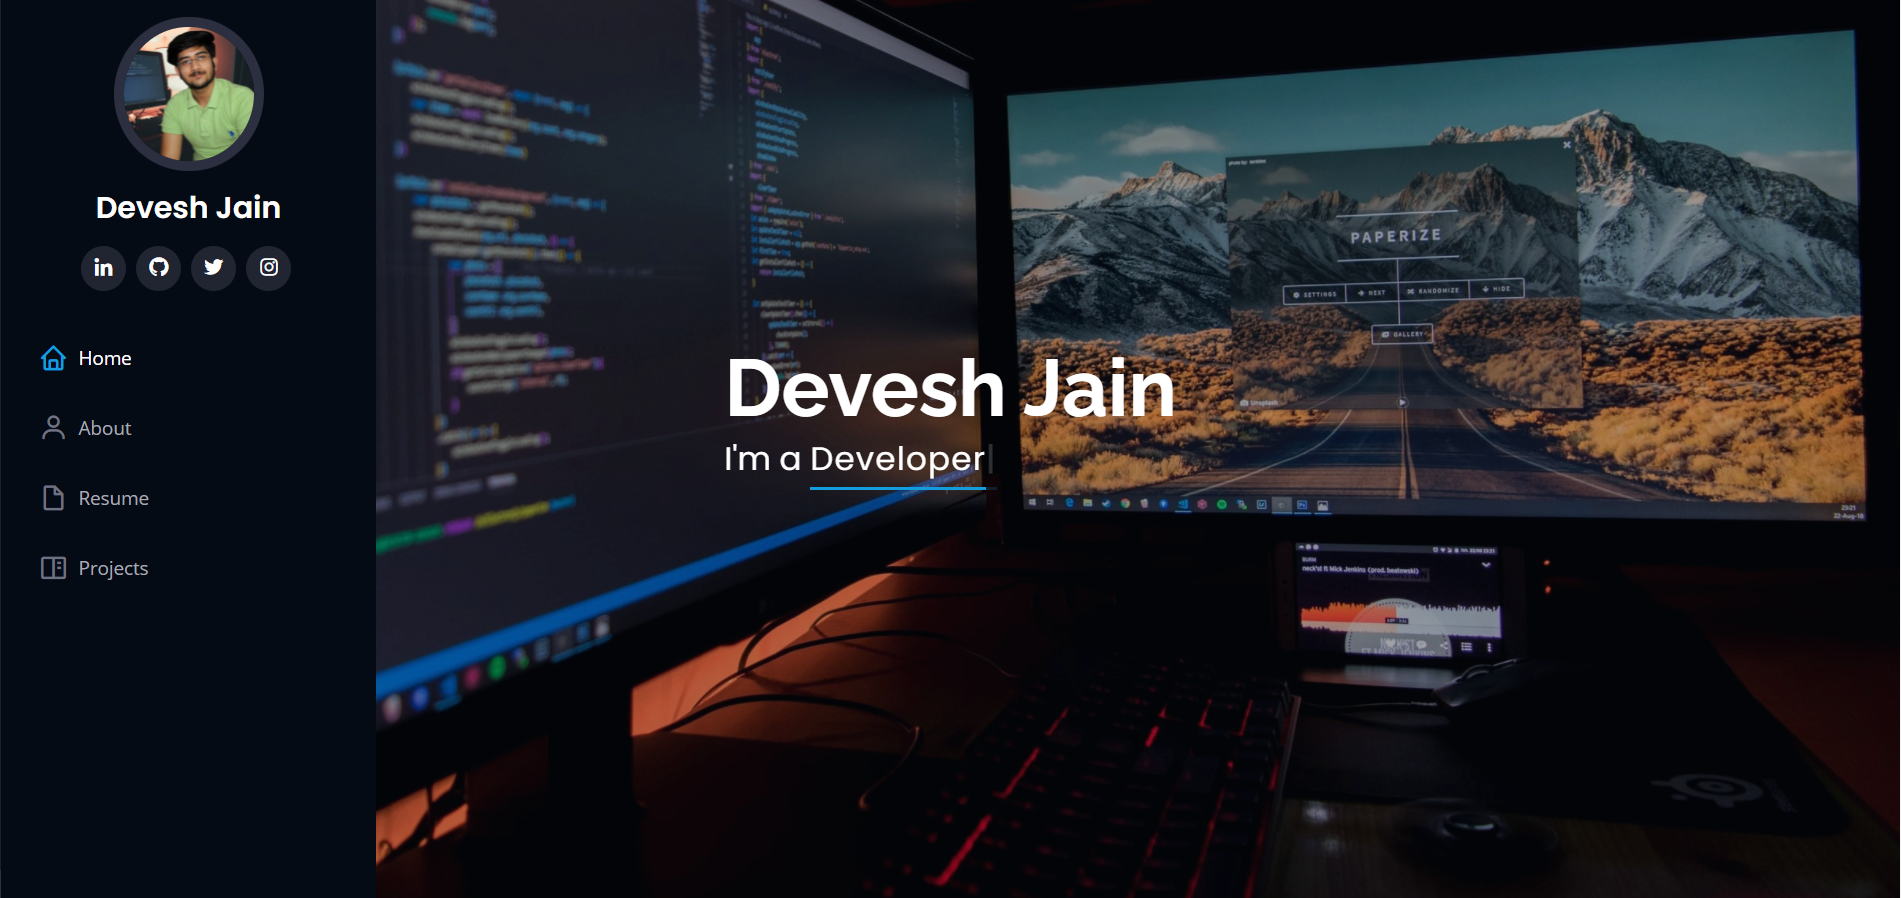
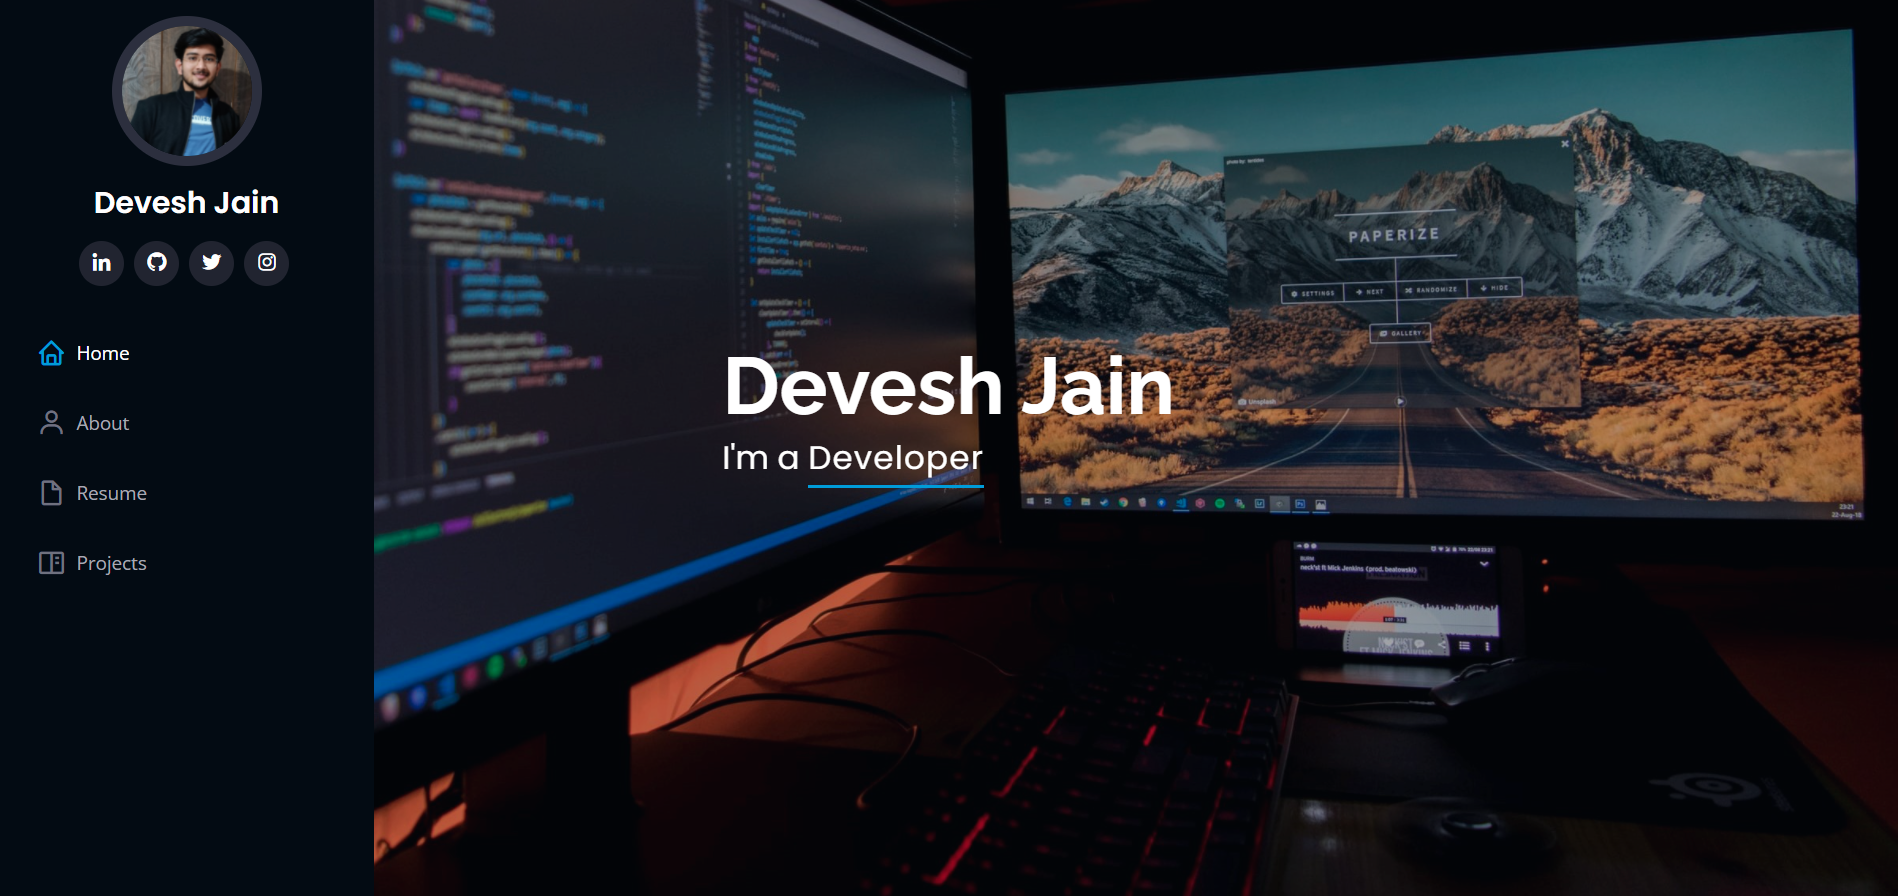
Changes

diff --git a/index.html b/index.html
@@ -39,7 +39,7 @@
     <div class="d-flex flex-column">
 
       <div class="profile">
-        <img src="assets/img/profile-img.jpg" alt="" class="img-fluid rounded-circle">
+        <img src="assets/img/profile-img-new.jpg" alt="" class="img-fluid rounded-circle">
         <h1 class="text-light"><a href="index.html">Devesh Jain</a></h1>
         <div class="social-links mt-3 text-center">
           <a href="https://www.linkedin.com/in/devesh-jain-b68b3119a/" target="_blank" class="linkedin"><i class="bx bxl-linkedin"></i></a>
@@ -94,7 +94,7 @@
 
         <div class="row">
           <div class="col-lg-4" data-aos="fade-right">
-            <img src="assets/img/profile-img.jpg" class="img-fluid" alt="">
+            <img src="assets/img/profile-img-new.jpg" class="img-fluid" alt="">
           </div>
           <div class="col-lg-8 pt-4 pt-lg-0 content" data-aos="fade-left">
             <h3>Web Developer &amp; UI/UX Designer</h3>
@@ -247,7 +247,7 @@
               <h5>Aug 2019 - Present</h5>
               <p><em> Dr. Akhilesh Das Gupta Institute of Technology and Management</em></p>
               <p>Delhi, India</p>
-              <p>CGPA = 8.29(Aggregate of 3 semesters)</p>
+              <p>CGPA = 8.71(Aggregate of 4 semesters)</p>
             </div>
             <div class="resume-item">
               <h4>12TH CBSE BOARD</h4>
@@ -272,11 +272,23 @@
             
           </div>
           <div class="resume-item">
-            <h4>Co-Founder, DESIGN HAT</h4>
-            <h5>Feb 2021 - Present</h5>
+            <h4>Web Development Intern, Technical Zen</h4>
+            <h5>April 2021 - June 2021</h5>
             <ul>
-            <li>Handles the podcasts, servers, meetings and engagement for the community.</li>
-              <li>Lead the Design Ambassador program and mentored the aspiring UI/UX designers who worked as interns under me.</li>
+            <li>Contributed to the existing code and functionality in an agile development cycle while working on the development of a
+              restaurant website’s design using ReactJS.</li>
+              
+            </ul>
+          </div>
+          <div class="resume-item">
+            <h4>Full Stack Developer, Earthetic Inc.</h4>
+            <h5>July 2021 - Sept 2021</h5>
+            <ul>
+            <li>Worked on the development of back end APIs, front end UI elements and layouts and crucial business logic for database
+              queries and generating reports for a web application.</li>
+              <li>Worked on a mobile application, developed it’s front end,functionality and design using React Native under the guidance
+                of senior developers.</li>
+              
             </ul>
           </div>
         </div>
@@ -330,7 +342,7 @@
               
             </div>
             <h3 class="resume-title">POSITION OF RESPONSIBILITY</h3>
-            <div class="resume-item">
+            <!-- <div class="resume-item">
 
                 <h4>Co-Founder</h4>
                 
@@ -343,7 +355,7 @@
                 <h4>Web Developer</h4>
                 
                 <p><em>Technical Zen</em></p>
-              </div>
+              </div> -->
 
               <div class="resume-item">
 
@@ -354,7 +366,7 @@
 
                 <div class="resume-item">
 
-                <h4>Graphic Designer Head</h4>
+                <h4>Graphics Head</h4>
                 
                 <p><em>E-Cell ADGITM</em></p>
               </div>
